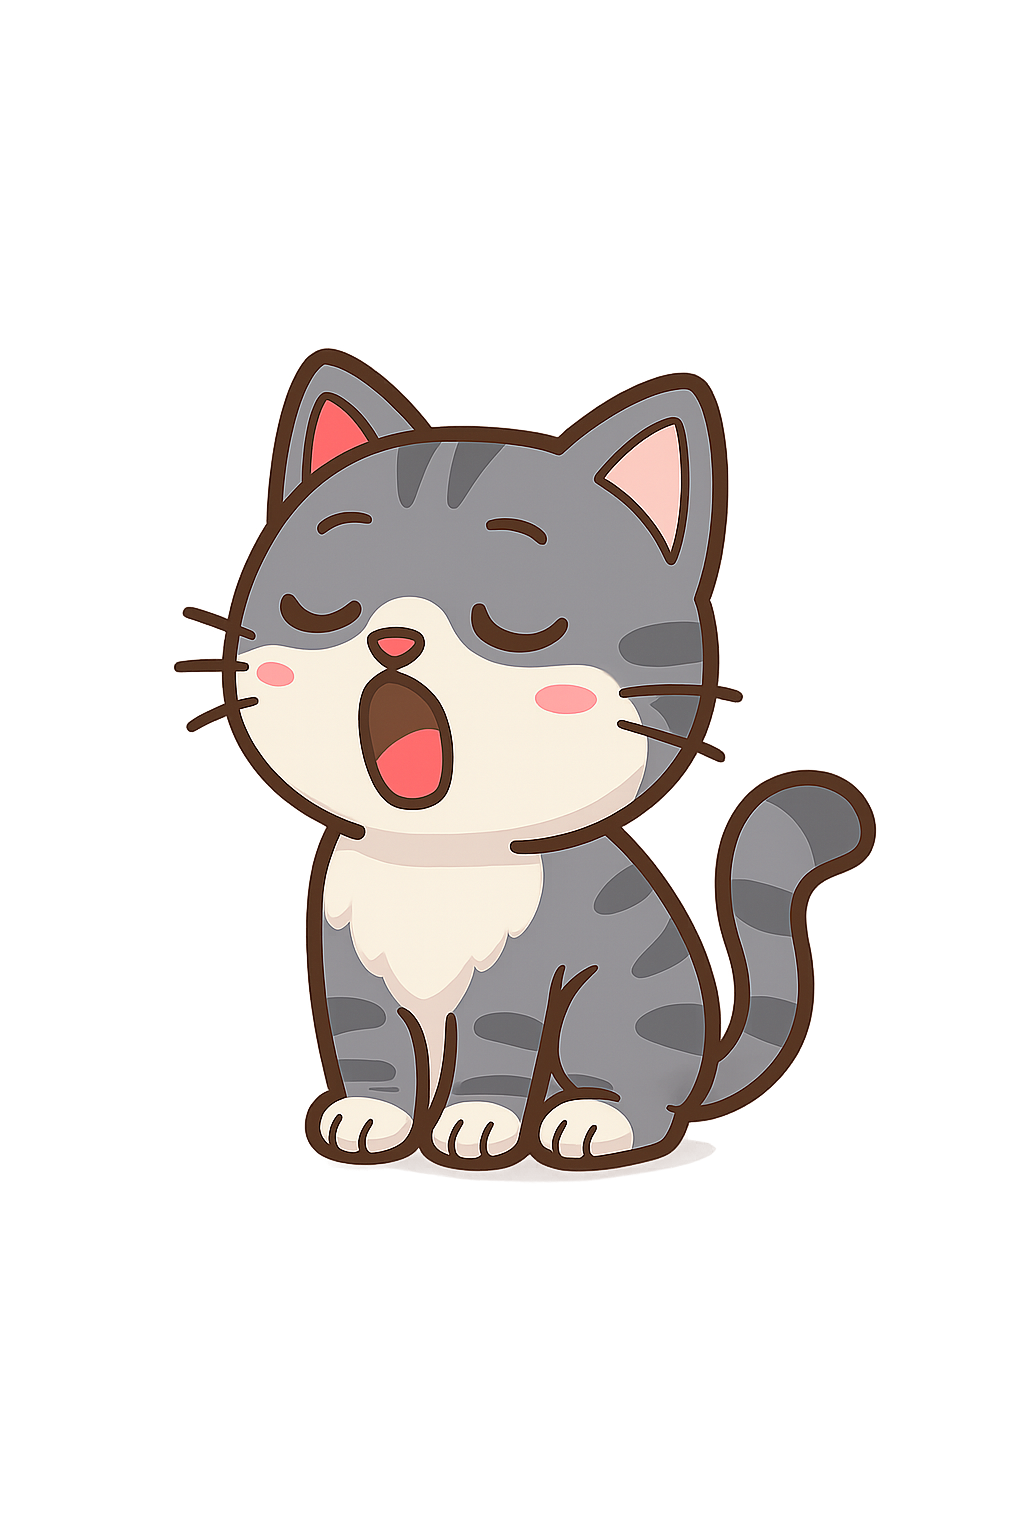
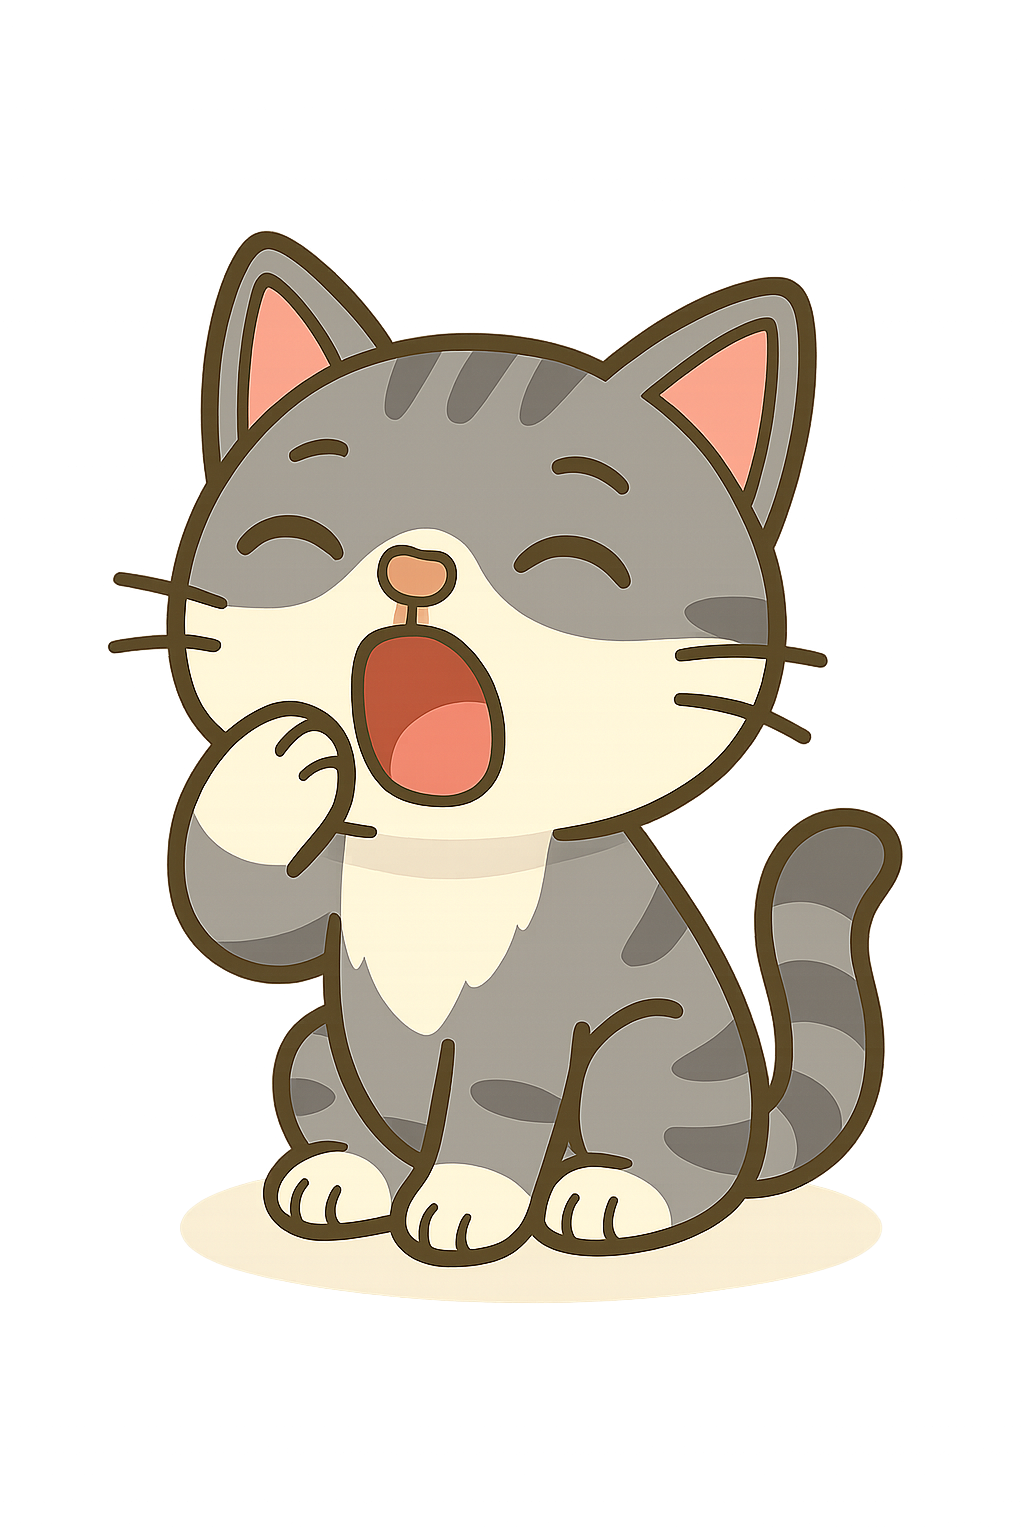
feat: add new mascot illustrations (beachNet, books2, chip, construction, constructionWarning, flag, gear, hi, sleepFloor, yawn)

Changed region(s): [[0.0938, 0.125, 0.9062, 0.875]]

diff --git a/new-words/services/imageService.ts b/new-words/services/imageService.ts
@@ -17,10 +17,12 @@ const images = {
   mascotBored: require("../assets/images/mascot/mascot_bored.png"),
   mascotSleepBook: require("../assets/images/mascot/mascot_sleep_book.png"),
   mascotSleepSofa: require("../assets/images/mascot/mascot_sleep_sofa.png"),
+  mascotSleepFloor: require("../assets/images/mascot/mascot_sleep_floor.png"),
   mascotRun: require("../assets/images/mascot/mascot_run.png"),
   mascotStretch: require("../assets/images/mascot/mascot_stretch.png"),
   mascotStudy: require("../assets/images/mascot/mascot_study.png"),
   mascotYawn: require("../assets/images/mascot/mascot_yawn.png"),
+  mascotYawn2: require("../assets/images/mascot/mascot_yawn2.png"),
   mascotWalk: require("../assets/images/mascot/mascot_walk.png"),
   mascotMeditate: require("../assets/images/mascot/mascot_meditate.png"),
   mascotMedal: require("../assets/images/mascot/mascot_medal.png"),
@@ -51,6 +53,14 @@ const images = {
   mascotPillowLaugh: require("../assets/images/mascot/mascot_pillowLaugh.png"),
   mascotPodium: require("../assets/images/mascot/mascot_podium.png"),
   mascotWindowSad: require("../assets/images/mascot/mascot_windowSad.png"),
+  mascotChip: require("../assets/images/mascot/mascot_chip.png"),
+  mascotConstruction: require("../assets/images/mascot/mascot_construction.png"),
+  mascotFlag: require("../assets/images/mascot/mascot_flag.png"),
+  mascotGear: require("../assets/images/mascot/mascot_gear.png"),
+  mascotHi: require("../assets/images/mascot/mascot_hi.png"),
+  mascotBeachNet: require("../assets/images/mascot/mascot_beachNet.png"),
+  mascotConstructionWarning: require("../assets/images/mascot/mascot_constructionWarning.png"),
+  mascotBooks2: require("../assets/images/mascot/mascot_books2.png"),
   mascotBooks: require("../assets/images/mascot/mascot_books.png"), // Onboarding 1
   mascotThink: require("../assets/images/mascot/mascot_think.png"), // Onboarding 2
   mascotPlayGame: require("../assets/images/mascot/mascot_play_game.png"), // Onboarding 3
@@ -64,6 +74,7 @@ const images = {
   mascotWrite2: require("../assets/images/mascot/inspiration/mascot_write2.png"),
   mascotWrite3: require("../assets/images/mascot/inspiration/mascot_write3.png"),
   mascotNinjaBlack: require("../assets/images/mascot/inspiration/mascot_ninjaBlack.png"),
+  mascotMapAmazed: require("../assets/images/mascot/mascot_map_amazed.png"),
 
   // --- Ícones da Aplicação ---
   appIcon: require("../assets/images/mascot/mascot_study.png"),
